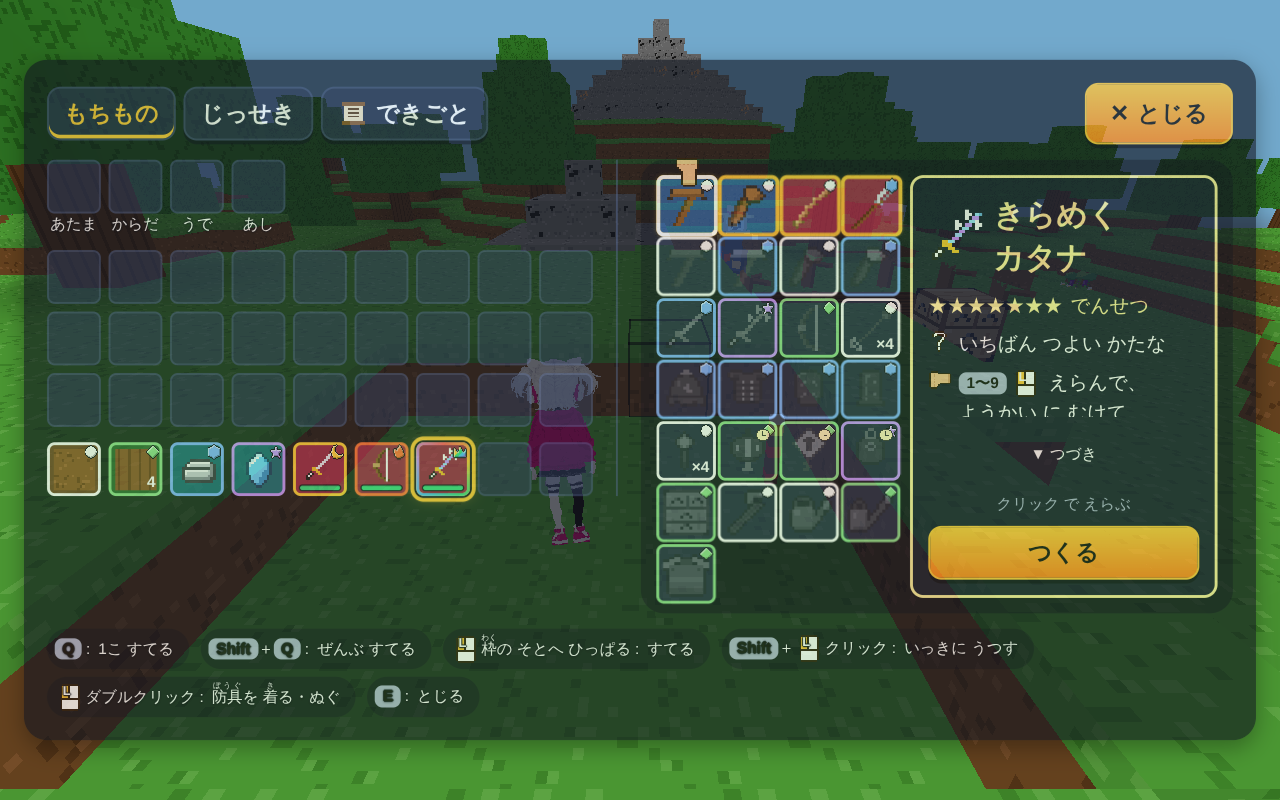
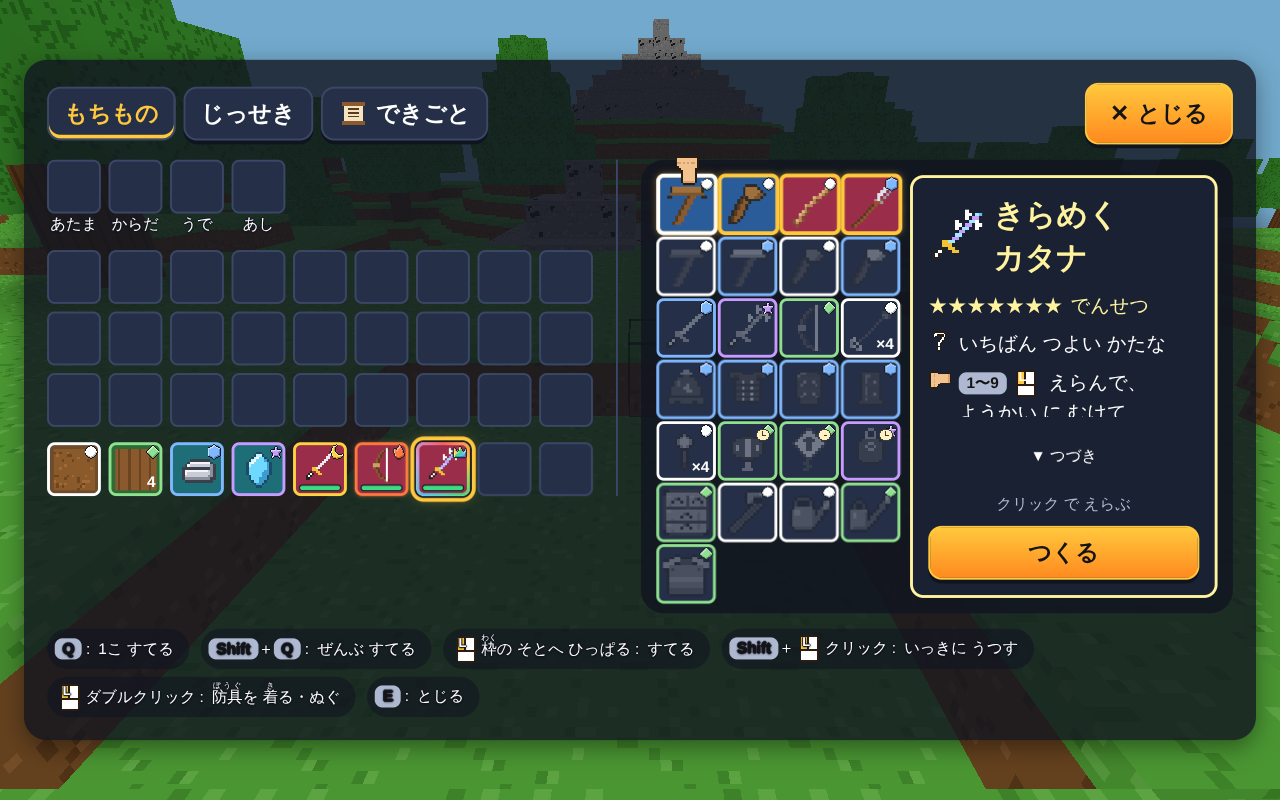
RARITY-7: ツールチップに宝石とことば・7 段目の名前のにじ色・横断幕の星・テスト追加（レビュー対応）
Claude-Session: https://claude.ai/code/session_01Li1Rak4DUBf7uM8odAfDuh

diff --git a/src/ui/tooltip.ts b/src/ui/tooltip.ts
@@ -1,4 +1,6 @@
 import type { ItemId, ItemStack } from '../contracts';
+import { rarityTier } from '../drops/rarity';
+import { gemUrl } from './gemArt';
 import { anyIconUrl, itemIconUrl } from './itemIcon';
 import { buildTooltip, rarityCss, starText, type TooltipData, type TooltipDeps } from './tooltipModel';
 import './tooltip.css';
@@ -47,6 +49,9 @@ export class Tooltip {
   private readonly head: HTMLDivElement;
   private readonly nameEl: HTMLDivElement;
   private readonly starsEl: HTMLDivElement;
+  private readonly wordEl: HTMLDivElement;
+  private readonly wordImg: HTMLImageElement;
+  private readonly wordText: HTMLSpanElement;
   private readonly body: HTMLDivElement;
   private readonly descEl: HTMLDivElement;
   private readonly headIcon: HTMLImageElement;
@@ -65,11 +70,17 @@ export class Tooltip {
     this.head.append(this.headIcon, this.nameEl);
     this.starsEl = document.createElement('div');
     this.starsEl.className = 'tip-stars';
+    this.wordEl = document.createElement('div');
+    this.wordEl.className = 'tip-word';
+    this.wordImg = document.createElement('img');
+    this.wordImg.alt = '';
+    this.wordText = document.createElement('span');
+    this.wordEl.append(this.wordImg, this.wordText);
     this.descEl = document.createElement('div');
     this.descEl.className = 'tip-desc rk-tooltip__desc';
     this.body = document.createElement('div');
     this.body.className = 'tip-lines';
-    this.el.append(this.head, this.starsEl, this.descEl, this.body);
+    this.el.append(this.head, this.starsEl, this.wordEl, this.descEl, this.body);
     parent.append(this.el);
     this.onMove = (e) => {
       this.mx = e.clientX;
@@ -109,16 +120,23 @@ export class Tooltip {
       }
       return;
     }
-    const key = `${t.item}|${t.desc}|${t.lines.join('/')}`;
+    const key = `${t.item}|${t.rarity}|${t.desc}|${t.lines.join('/')}`;
     if (key !== this.shownKey) {
       this.shownKey = key;
       const col = rarityCss(t.rarity);
       this.el.style.borderColor = col;
       this.headIcon.src = itemIconUrl(t.item);
       this.nameEl.textContent = t.name;
-      this.nameEl.style.color = col;
+      this.nameEl.style.color = col; // 7 段目は 下で はずす
       this.starsEl.textContent = starText(t.stars);
       this.starsEl.style.color = col;
+      const tier = rarityTier(t.rarity);
+      this.wordImg.src = gemUrl(tier.index);
+      this.wordText.textContent = tier.word;
+      this.wordEl.style.color = col;
+      // 7 段目は 名前を にじ色に（案 A）
+      this.nameEl.classList.toggle('tip-name--rainbow', tier.index === 6);
+      if (tier.index === 6) this.nameEl.style.removeProperty('color');
       this.descEl.textContent = t.desc;
       this.descEl.hidden = t.desc === '';
       this.body.replaceChildren();

diff --git a/src/fx/combatFx.test.ts b/src/fx/combatFx.test.ts
@@ -1,6 +1,6 @@
 import * as THREE from 'three';
 import { describe, expect, it } from 'vitest';
-import type { CombatEvent, DayPhase, YokaiEvent } from '../contracts';
+import type { CombatEvent, DayPhase, Rarity, YokaiEvent } from '../contracts';
 import { BlockDoll } from '../camera/BlockDoll';
 import { BagVisuals } from './bagVisuals';
 import { sparkleCount } from './dropSparkle';
@@ -50,7 +50,7 @@ describe('計算', () => {
 });
 
 describe('BagVisuals', () => {
-  const it1 = (id: number, x: number, count = 1, item: 'dirt' | 'stone' = 'dirt', batch = 1, rarity: 'common' | 'rare' | 'superRare' = 'common') => ({
+  const it1 = (id: number, x: number, count = 1, item: 'dirt' | 'stone' = 'dirt', batch = 1, rarity: Rarity = 'common') => ({
     id,
     batch,
     rarity,
@@ -93,9 +93,9 @@ describe('BagVisuals', () => {
     const h0 = (pillar().material as THREE.MeshBasicMaterial).color.getHex();
     for (let i = 0; i < 120; i++) v.update(1 / 60, [it1(1, 1, 1, 'dirt', 1, 'superRare')]);
     expect((pillar().material as THREE.MeshBasicMaterial).color.getHex()).toBe(h0);
-    v.update(1 / 60, [it1(1, 1, 1, 'dirt', 1, 'legendary' as never)]);
+    v.update(1 / 60, [it1(1, 1, 1, 'dirt', 1, 'legendary')]);
     const l0 = (pillar().material as THREE.MeshBasicMaterial).color.getHex();
-    for (let i = 0; i < 120; i++) v.update(1 / 60, [it1(1, 1, 1, 'dirt', 1, 'legendary' as never)]);
+    for (let i = 0; i < 120; i++) v.update(1 / 60, [it1(1, 1, 1, 'dirt', 1, 'legendary')]);
     expect((pillar().material as THREE.MeshBasicMaterial).color.getHex()).not.toBe(l0);
     v.update(1 / 60, [it1(1, 1, 1, 'dirt', 1, 'common')]);
     expect(drawn(1)).toBe(0);

diff --git a/src/dig/DigSystem.test.ts b/src/dig/DigSystem.test.ts
@@ -554,6 +554,37 @@ describe('ドロップ数（めずらしさ）', () => {
       }
     });
   }
+  for (const tier of ['epic', 'mythic', 'legendary'] as const) {
+    it(`AC10 dirt を ${tier} にすると 20 回ほって 毎回 1 こ`, () => {
+      for (let i = 0; i < 20; i++) {
+        const r = new Rig();
+        r.rngValue = i === 0 ? 0 : i === 1 ? 0.999999 : (i * 0.0471) % 1;
+        r.dig.config.handPower = 1000;
+        r.dig.config.handLevel = 1;
+        r.dig.config.rarity.dirt = tier;
+        r.set(4, 10, 6, 'dirt');
+        r.press('primary');
+        r.step(2);
+        r.repress();
+        expect(r.inv.count('dirt'), `${tier} #${i}`).toBe(1);
+      }
+    });
+  }
+  it('AC10 dropMax を { legendary: 3 } にすると 1〜3 こ', () => {
+    for (const [v, want] of [[0, 1], [0.999999, 3]] as const) {
+      const r = new Rig();
+      r.rngValue = v;
+      r.dig.config.handPower = 1000;
+      r.dig.config.handLevel = 1;
+      r.dig.config.rarity.dirt = 'legendary';
+      r.dig.config.dropMax.legendary = 3;
+      r.set(4, 10, 6, 'dirt');
+      r.press('primary');
+      r.step(2);
+      r.repress();
+      expect(r.inv.count('dirt')).toBe(want);
+    }
+  });
   it('superRare は最大 1', () => {
     const r = new Rig();
     r.rngValue = 0.999999;

diff --git a/src/ui/tooltip.css b/src/ui/tooltip.css
@@ -44,6 +44,36 @@
   line-height: var(--rk-lh);
   margin: var(--rk-sp-1) 0;
 }
+/* めずらしさの ことば（星の下。宝石の印 ＋ ことば。色は めずらしさの色） */
+.tip-word {
+  display: flex;
+  align-items: center;
+  gap: var(--rk-sp-2);
+  font-size: var(--rk-fs-body);
+  line-height: var(--rk-lh);
+  margin-bottom: var(--rk-sp-1);
+  white-space: nowrap;
+}
+.tip-word img {
+  width: var(--rk-icon-chip);
+  height: var(--rk-icon-chip);
+  image-rendering: pixelated;
+}
+/* 7 段目の名前: にじ色（8 秒で 1 周）。「うごきを へらす」では 止める */
+.tip-name--rainbow {
+  /* 字は にじ色の下地を 切りぬいて 見せる（fill は とうめい）。color は 字の色の検査用に、にじ色の上で 読める くらい色にしておく */
+  color: var(--rk-bg-900);
+  background: var(--rk-rarity-rainbow);
+  -webkit-background-clip: text;
+  background-clip: text;
+  -webkit-text-fill-color: transparent;
+  animation: rainbow-spin 8s linear infinite;
+}
+@media (prefers-reduced-motion: reduce) {
+  .tip-name--rainbow {
+    animation: none;
+  }
+}
 .tip-line {
   display: flex;
   align-items: center;

diff --git a/src/drops/DropField.test.ts b/src/drops/DropField.test.ts
@@ -115,6 +115,17 @@ describe('DropField', () => {
     expect(g.f.list().map((d) => [d.batch, d.rarity])).toEqual(l.map((d) => [d.batch, d.rarity]));
   });
 
+  it('AC11 セーブ: 7 つの id はそのまま、ほかの文字は アイテムの段階', () => {
+    const r = rig();
+    r.f.scatter({ x: 10.5, y: 9, z: 10.5 }, [{ item: 'iron_ore', count: 1 }]);
+    const base = JSON.parse(JSON.stringify(r.f.serialize()))[0];
+    for (const [saved, want] of [['superRare', 'superRare'], ['legendary', 'legendary'], ['epic', 'epic'], ['banana', 'rare']] as const) {
+      const g = rig();
+      g.f.deserialize([{ ...base, rarity: saved }]);
+      expect(g.f.list()[0]!.rarity, saved).toBe(want);
+    }
+  });
+
   it('拾う・足もとが消えたら落ちる・10 分で消える・保存', () => {
     const r = rig();
     r.f.scatter({ x: 10.5, y: 9, z: 10.5 }, [{ item: 'dirt', count: 2 }]);

diff --git a/src/fx/bagVisuals.ts b/src/fx/bagVisuals.ts
@@ -69,7 +69,7 @@ function pillarMaterial(color: number): THREE.MeshBasicMaterial {
   m.userData.noDim = true; // 光るものは暗くしない
   return m;
 }
-// 7 段ぶん（RARITY-7）。5〜7 段目の柱は 段の色のまま（にじ色に流すのは 4 段目だけ。仮）
+// 7 段ぶん（RARITY-7）。5〜7 段目の柱は 段の色のまま（にじ色に流すのは 7 段目だけ）
 const PILLAR_MATS = Object.fromEntries(RARITY_ORDER.map((r) => [r, pillarMaterial(RARITY_COLOR[r])])) as Record<Rarity, THREE.MeshBasicMaterial>;
 const RING_GEO = new THREE.RingGeometry(0.34, 0.44, 32).rotateX(-Math.PI / 2);
 const RING_MAX = 400;

diff --git a/src/ui/celebrate/views.ts b/src/ui/celebrate/views.ts
@@ -162,7 +162,11 @@ export class BannerView {
     if (this.shownRecipe !== look.recipe + look.kind) {
       this.shownRecipe = look.recipe + look.kind;
       this.head.textContent = look.kind === 'bake' ? 'はじめて やいた！' : 'はじめて つくった！';
-      this.name.textContent = `${info.name} ${'★'.repeat(info.stars)}`;
+      this.name.textContent = `${info.name} `;
+      const st = document.createElement('span');
+      st.className = 'cel-banner__stars';
+      st.textContent = '★'.repeat(info.stars);
+      this.name.append(st);
       this.icon.src = info.iconUrl;
       setRarity(this.wrap, info.rarity);
     }

diff --git a/src/ui/celebrate/celebrate.css b/src/ui/celebrate/celebrate.css
@@ -122,6 +122,11 @@
   font-weight: 800;
   line-height: 1.1;
 }
+.cel-banner__stars {
+  white-space: nowrap;
+  color: var(--rk-bg-900);
+  text-shadow: 0 0 var(--rk-sp-1) var(--rk-text), 0 0 var(--rk-sp-1) var(--rk-text); /* オレンジの帯の上でも よめる（くらい星に しろい ふち） */
+}
 .cel-banner__shine {
   position: absolute;
   top: 0;

diff --git a/docs/loop-ledger/RARITY-7.md b/docs/loop-ledger/RARITY-7.md
@@ -8,3 +8,12 @@
 | 1 | design | design-reviewer | 【軽微】AC14: 「たんすのマスのふちの色」を何で読むか書いていない。`hotbar.ts`・`craftPanel.ts` は `data-rarity` を付けるが、`storageScreen.ts` は付けない（`parts.ts` 経由）。計算された色を読む対象（セレクタ）か、`data-rarity` を足すかを決める | 確かめ方のあいまいさ | G4 | 直した（版 2: たんすのマスに `data-rarity` を足す〈§8.1〉、AC14 で data-rarity と計算された borderColor を読む） |
 | 1 | design | design-reviewer | 【軽微】AC7・AC15: 案 A/B が未決。「選ばれた案」とあるので、オーナー確認①の前にテストを書く場合は案 A で書く、と一言ほしい（案 B になったら AC7・AC15 と `craft.test.ts:61` を直す） | 書き足し | G5 | 直した（版 2: §7 の表の下に追記） |
 | 1 | dev | code-reviewer | 【軽微】`e2e/rarity7.spec.ts` AC14: `IDS`・`DROP_MAX` を数で書いているのは §7 の「ここで決めた」範囲なので可。ただしホットバーのふちを `borderTopColor` で読んでいる（仕様は `borderColor`）。実装でマスが片側だけ色を変えると見逃すので、四辺そろう形なら `borderColor` に合わせるとよい | 書き足し | T1 | 直した（ホットバーのふちを borderColor で読む形に） |
+| 1 | art | art-reviewer | 【重大】ツールチップ（`docs/screenshots/RARITY-7/tooltip-legendary.png`、ui-gate の rarity-7-tooltip）に「ことば＋宝石」の行がない。案 A のシートは星の下に「◆ でんせつ」の行がある。星だけだと 6 歳は 7 つ数えにくい。星の下に宝石つきのことばを足す（つくる画面のせつめいには「でんせつ」が出ているのでそろえる） | 案との食いちがい | A1 | 直した（ツールチップに 宝石＋ことば の行 `.tip-word`） |
+| 1 | art | art-reviewer | 【軽微】ツールチップの星が、段の数だけの ★（`starText`）で、案 A のような うすい空の星（7 こ中いくつか）がない。「7 つのうち いくつ」が見えるよう、空の星をうすく足すとよい | 案との食いちがい | A2 | しない（PO: 空の星は なくてよい） |
+| 1 | art | art-reviewer | 【軽微】7 段目のツールチップに、案 A の にじ色（名前 1 字ずつ・ふちの にじ）がなく、きいろ 1 色。でんせつの特別感が ホットバーより弱い | 案との食いちがい | A3 | 直した（7 段目の名前を にじ色に。reduced-motion で止める） |
+| 1 | art | art-reviewer | 【軽微】おいわいの横断幕（`banner-legendary-1280x800.png`）の ★7 が 黒っぽく、オレンジの帯の上で 読みにくい。めずらしさの色（またはきん）にする。また、見出しの 物が つるはし（もとは 0 段）で、ファイル名の「legendary」と 絵が合っていない（検査用に 段を上げたのなら その旨を 残す） | 色・撮り方 | A4 | 直した（★ を くらい色＋しろい ふち。検査用に wood_pickaxe を 7 段にしたスクショ） |
+| 1 | art | art-reviewer | 【軽微】えらんだ マスの きいろいわく（#FFC83D）と 4 段（きん #FFD23F）が近い。`hotbar-7tiers-epic-selected.png` では 外がわの わくで 区別はできるが、4 段は 1 マスの 色だけでは差が小さい。わくの 太さか 色（白みのある きいろ・白との 二重）で もう少し はなす。ホットバーは 7 段とも 形（宝石）が ちがい、白黒でも 区別できる点は 合格 | 区別 | A5 | 直した（すきま 2px を くらい色でうめる。1b1913e） |
+| 1 | art | art-reviewer | 【軽微】つくる画面のせつめいで「ようかい に むけて…」の 行が 下で 切れている（`craft-detail-legendary.png`）。めずらしさの 変更ではないが 7 段目の 星の行が 増えた 画面で 目立つ | 配置 | A6 | しない（「▼ つづき」で 中を動かす 作りで、切れて見えるのは スクロールの途中。めずらしさの変更ではない） |
+| 2 | dev | code-reviewer | 【軽微】`src/drops/rarity7.test.ts` に AC10（dirt を epic/mythic/legendary にして 20 回ほる→毎回 1 こ、`dropMax {legendary:3}` で 1〜3 こ）と AC11（袋 rarity `superRare`/`legendary` のセーブ読み込み、`banana` はアイテムの段階）の確かめがない。`DigSystem.test.ts`・`DropField.test.ts` にも epic/legendary の確かめなし。足す | テストの抜け | R1 | 直した（DigSystem.test・DropField.test に AC10・AC11） |
+| 2 | dev | code-reviewer | 【軽微】`src/fx/bagVisuals.ts:72` のコメント「にじ色に流すのは 4 段目だけ。仮」が古い（今は 7 段目だけ）。直す | 言い回し | R2 | 直した |
+| 2 | dev | code-reviewer | 【軽微】`src/fx/combatFx.test.ts` は `'legendary' as never` で型をごまかしている（Rarity は 7 つなので不要）。外す | 読みにくさ | R3 | 直した |
